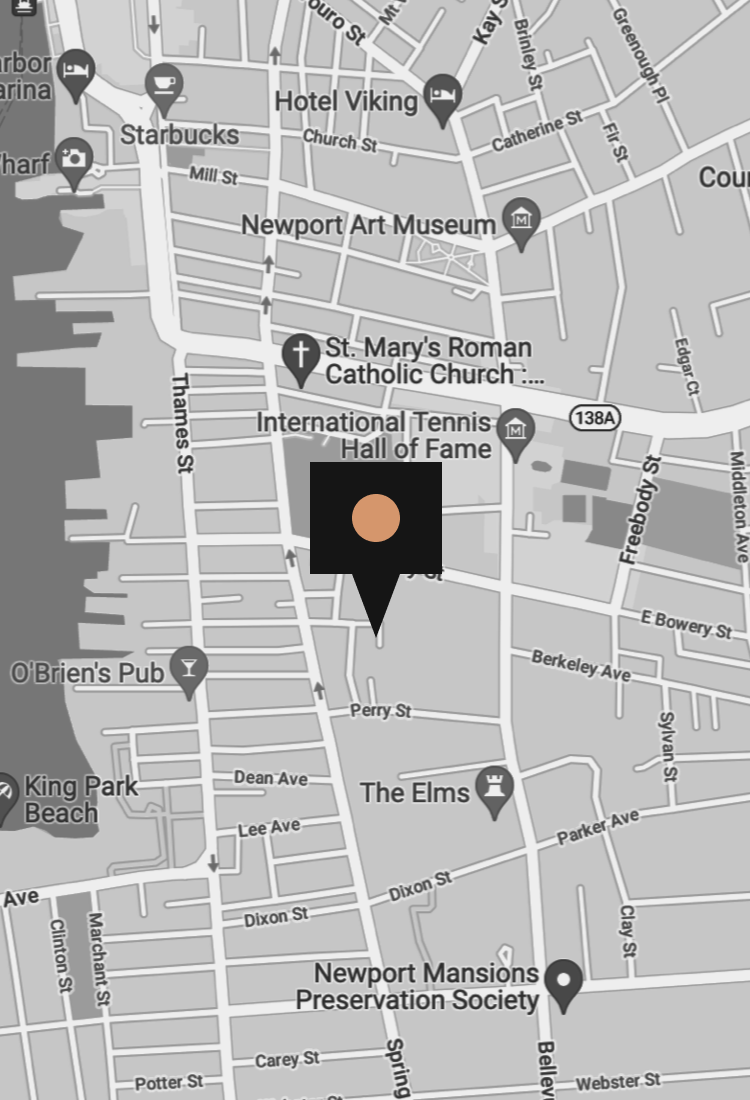
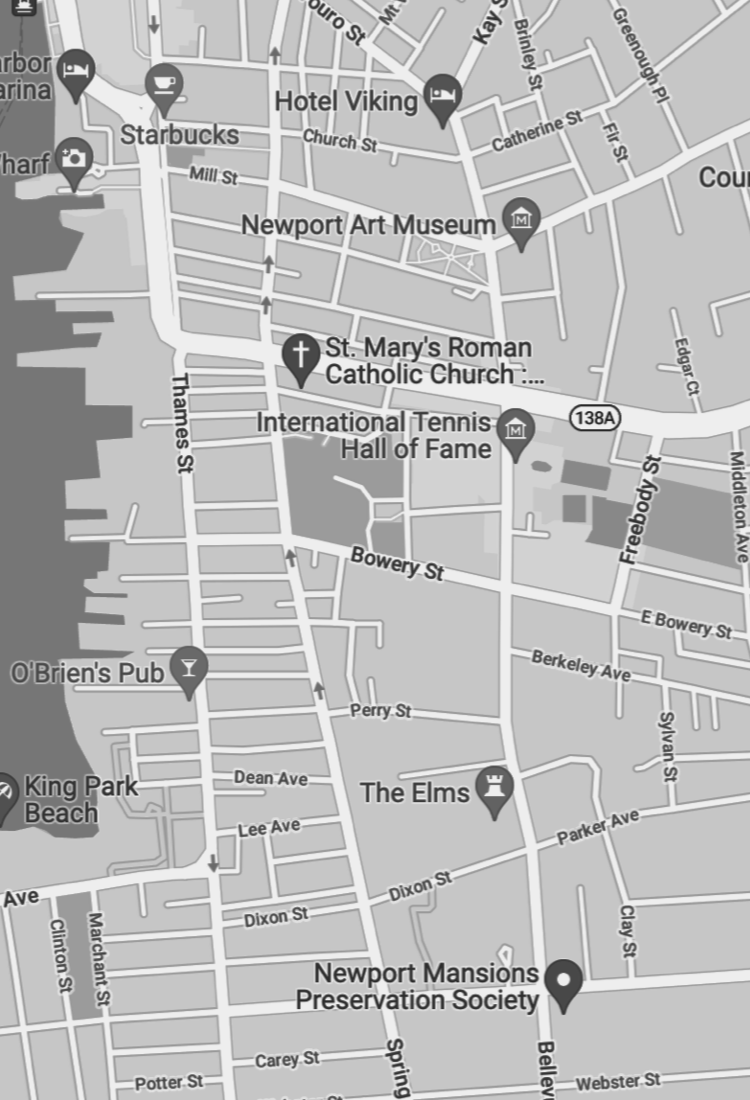
fixing mobile view

Changed region(s): [[0.3987, 0.4018, 0.6133, 0.5873]]

diff --git a/css/styleLocation.css b/css/styleLocation.css
@@ -407,3 +407,56 @@ text-align: center;
   }
   }
   /* end of tablet view */
+
+  /* STARTING MOBILE VIEW */
+  @media only screen and (max-width: 450px){
+    #maps{
+      background-image: url("/images/mobile/image-map.png");
+      height: 600px;
+      width: 100%;
+    }
+  
+  
+  .h3-like{
+  font-size: 45px;
+  line-height: 45px;
+  }
+  
+  .social-links{
+    text-align: left;
+    padding: 0px;
+    margin: 0px;
+  }
+  .social{
+    padding-left: 0px;
+    flex: 1;
+    padding-top: 0px;
+    justify-content: start;
+  }
+  .quote{
+    padding-bottom: 20px;
+  }
+  .p-l{
+    margin-left: 2px;
+  }
+  .address{
+    flex-direction: column;
+  }
+  
+  .address h1{
+    width: 100%;
+    padding-bottom: 50px;
+    font-size: 50px;
+    line-height: 45px;
+    font-weight: 900 bold;
+  }
+  
+  .locationFoter{
+    flex-direction: column;
+  }
+  .message{
+    padding-bottom: 50px;
+  }
+  
+  }
+  /* end mobile view */
